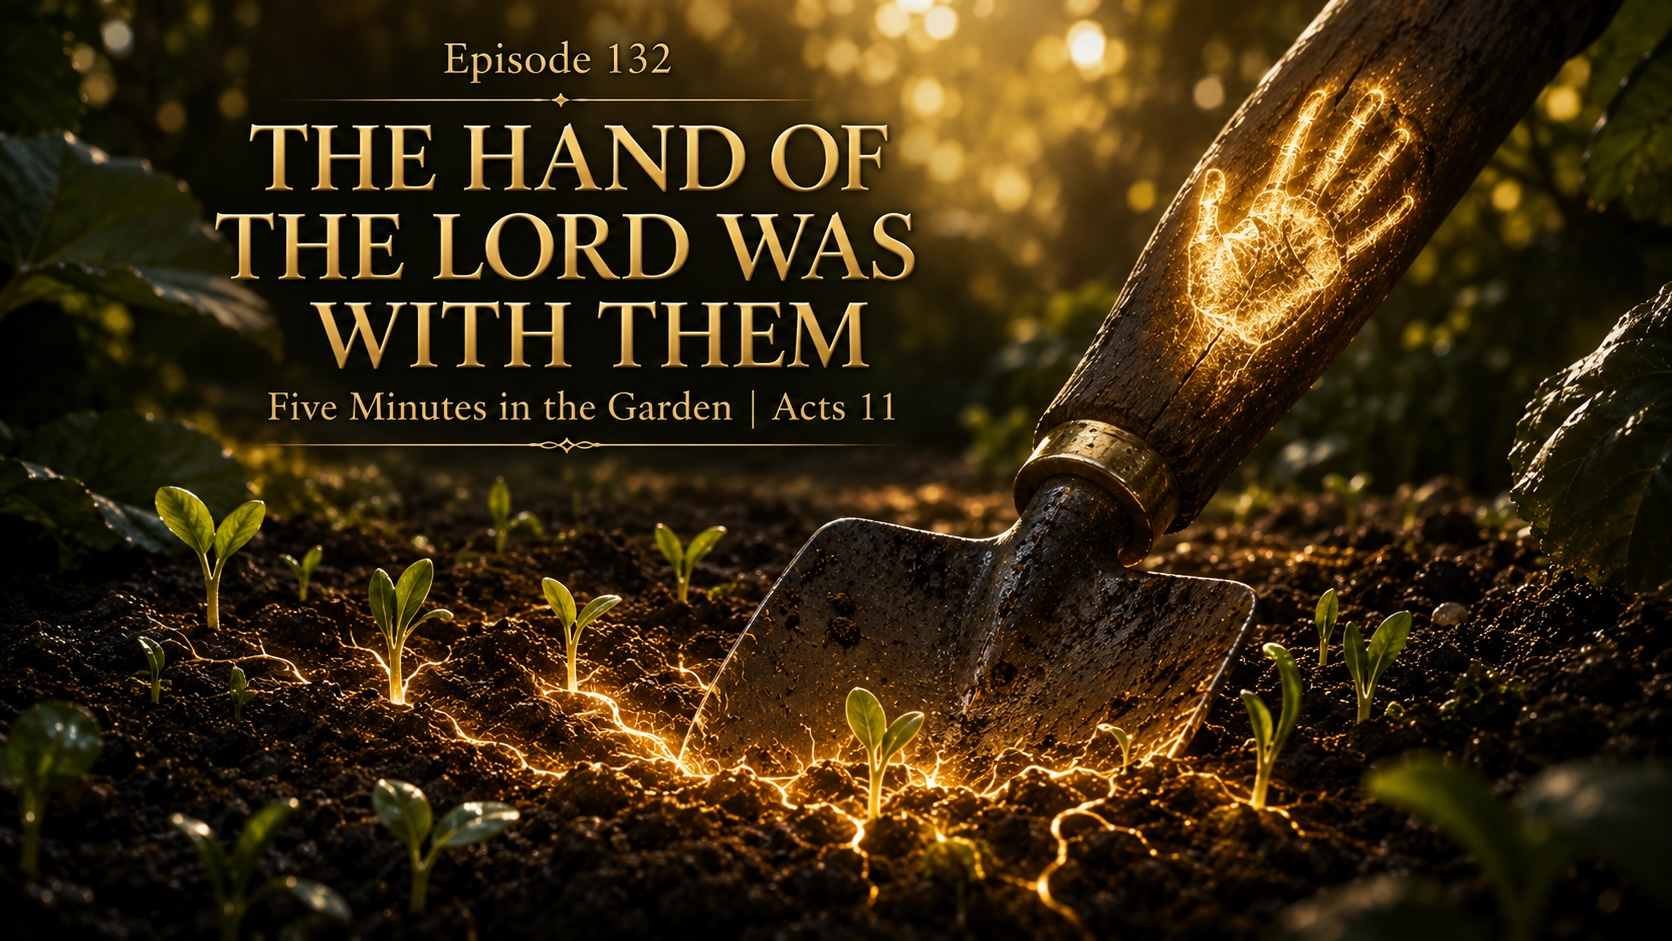
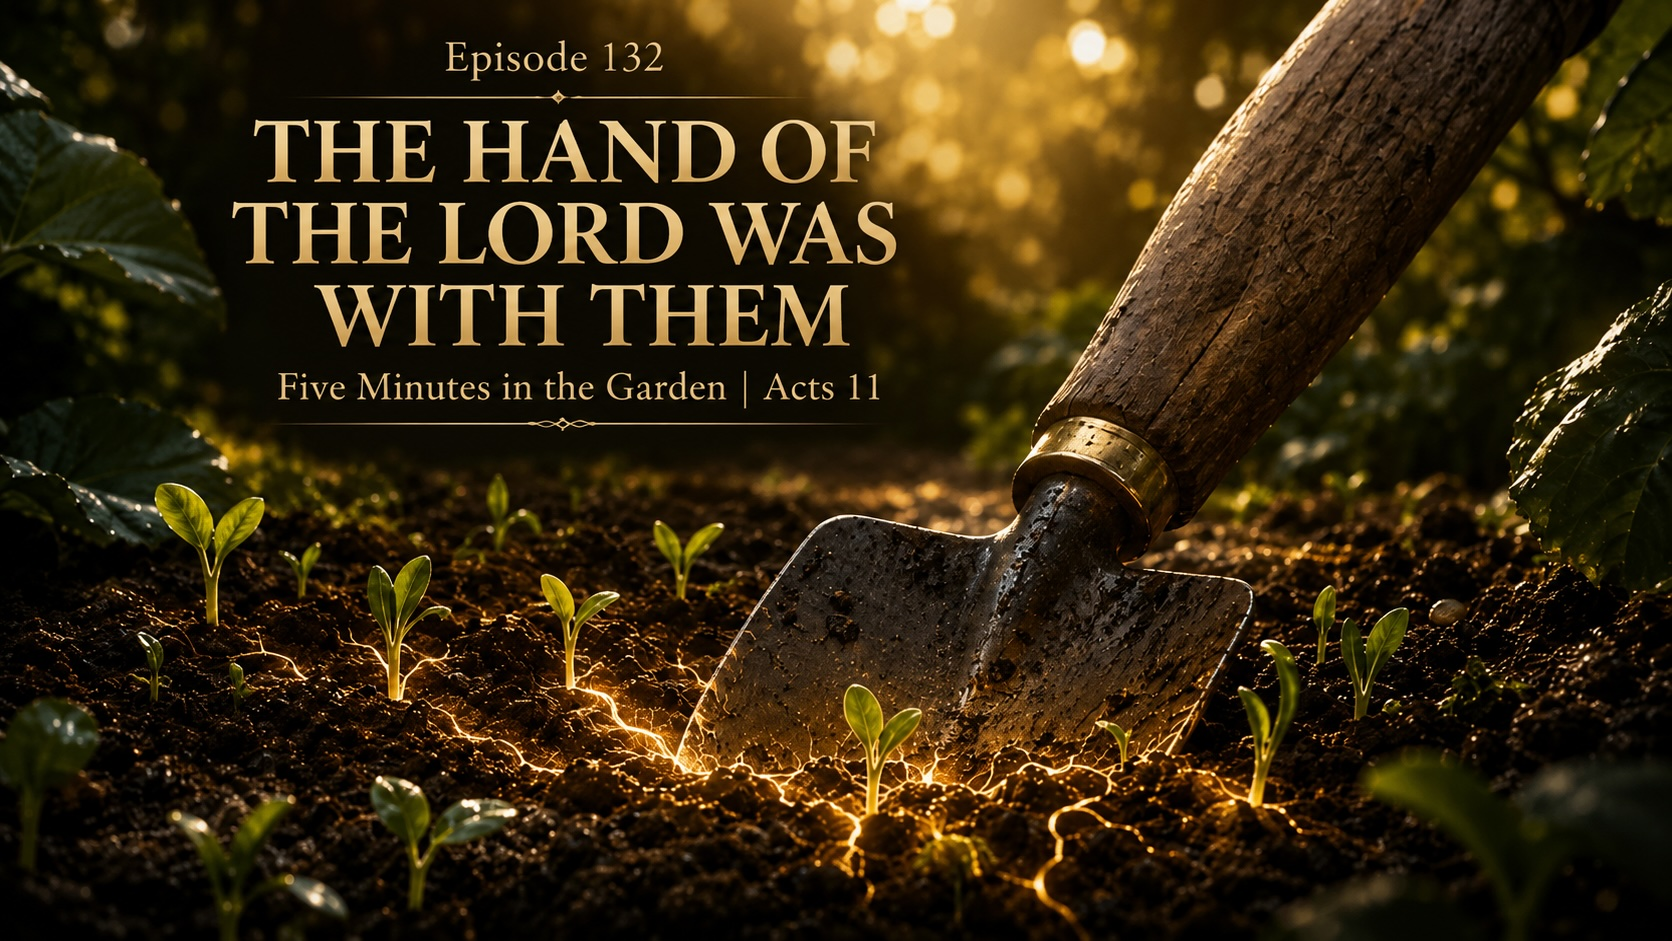
Publish episode 132, update audible link for episode 131, update YouTube link for episode 124, update artwork for 132

diff --git a/src/content/episodes/episode-132-the-hand-of-the-lord-was-with-them.md b/src/content/episodes/episode-132-the-hand-of-the-lord-was-with-them.md
@@ -1,0 +1,153 @@
+---
+title: "The Hand of the Lord Was with Them"
+episode: 132
+passage: "Acts 11:21"
+date: "2026-05-22"
+summary: "When God’s hand rests upon our efforts, ordinary work becomes part of His greater purpose."
+cover: "/episode-art/episode-132.jpg"
+spotify: "https://open.spotify.com/episode/4Bk4nfrApAK5ZvgD3L6MIq?si=S7H78O7NSVu0_SkCRFJSPw"
+amazon: "https://music.amazon.com/podcasts/760df990-7206-4e16-948b-b3c3038dcfce/episodes/99c151ba-fd9f-4f80-abb9-c0196db0afd4/episode-132-the-hand-of-the-lord-was-with-them"
+apple: "https://podcasts.apple.com/us/podcast/episode-132-the-hand-of-the-lord-was-with-them/id1804618601?i=1000769058828"
+audible: "https://www.audible.com/pd/B0H2MTTPXH?source_code=ASSGB149080119000H&share_location=pdp"
+youtube: "https://www.youtube.com/playlist?list=PLInIpT4GMkNXlKiTq2oVgSufLf-QaUDnt"
+draft: true
+---
+
+The message of Christ is spreading.
+
+Believers are sharing the good news.
+
+Lives are being changed.
+
+A new community is taking shape.
+
+But Scripture makes something important clear.
+
+The growth is not the result
+of human effort alone.
+
+The words are spoken
+by ordinary people.
+
+Yet something greater
+is at work.
+
+And Luke explains it
+with a simple phrase.
+
+*The hand of the Lord was with them.*
+
+## Scripture Reading
+
+<sup class="verse-num">21</sup> And the hand of the Lord was with them: and a great number believed, and turned unto the Lord.
+
+## Devotional Reflection
+
+The believers were faithful.
+
+They spoke.
+
+They served.
+
+They obeyed.
+
+But the true source
+of their fruitfulness
+was God.
+
+His presence.
+
+His power.
+
+His blessing.
+
+This is deeply reassuring.
+
+We are called
+to be faithful.
+
+But the results
+don’t rest
+on our shoulders alone.
+
+God’s hand accomplishes
+what our strength cannot.
+
+There is a difference
+between working hard
+and working with God.
+
+We can strive,
+plan,
+and labor diligently.
+
+But when the hand of the Lord
+is with us,
+our efforts are infused with grace.
+
+Conversations carry unexpected depth.
+
+Simple acts bear lasting fruit.
+
+Doors open
+that we could never open ourselves.
+
+The same task feels different
+when God’s presence
+rests upon it.
+
+Today, bring your efforts
+before the Lord.
+
+Your work.
+
+Your relationships.
+
+Your responsibilities.
+
+Your hopes.
+
+Do what’s yours to do.
+
+But ask God
+to place His hand upon it.
+
+Because even ordinary tasks
+become sacred
+when His presence is there.
+
+## Closing Prayer
+
+*Lord,*
+
+*Thank You that I do not labor alone.*
+
+*You invite me to be faithful,*
+*but You remain the source*
+*of every lasting result.*
+
+*Place Your hand upon my work today.*
+
+*Bless my words,*
+*my decisions,*
+*and the responsibilities before me.*
+
+*Where I feel inadequate,*
+*remind me that Your strength is enough.*
+
+*Where I feel discouraged,*
+*renew my hope.*
+
+*Where I am tempted*
+*to rely only on myself,*
+*teach me to depend on You.*
+
+*Let Your presence shape what I do,*
+*and let Your grace accomplish*
+*what my own effort cannot.*
+
+*Because when Your hand is with me,*
+*ordinary moments become part of Your greater work.*
+
+*In the name of the Father, and of the Son, and of the Holy Spirit,*
+*Amen.*

diff --git a/src/content/episodes/episode-131-the-disciples-were-called-christians-first.md b/src/content/episodes/episode-131-the-disciples-were-called-christians-first.md
@@ -8,7 +8,7 @@ cover: "/episode-art/episode-131.jpg"
 spotify: "https://open.spotify.com/episode/3mIzyOGhWKeucWrUcs4Pfz?si=MixmnXENRpG7N0iS1l1_pQ"
 amazon: "https://music.amazon.com/podcasts/760df990-7206-4e16-948b-b3c3038dcfce/episodes/7d457897-77d1-4b90-8099-dc3fc84d9f2b/episode-131-the-disciples-were-called-christians-first"
 apple: "https://podcasts.apple.com/us/podcast/episode-131-the-disciples-were-called-christians-first/id1804618601?i=1000768895589"
-audible: "https://tinyurl.com/5minAudible"
+audible: "https://www.audible.com/podcast/ITEM_NAME/B0H1WFBZV1?source_code=ASSGB149080119000H&share_location=pdp"
 youtube: "https://www.youtube.com/playlist?list=PLInIpT4GMkNXlKiTq2oVgSufLf-QaUDnt"
 draft: true
 ---

diff --git a/src/content/episodes/episode-124-tabitha-arise.md b/src/content/episodes/episode-124-tabitha-arise.md
@@ -9,7 +9,7 @@ spotify: "https://open.spotify.com/episode/4LsMMTCQiVQjmw3nNJxZCR?si=Sehi4hOSTH2
 amazon: "https://music.amazon.com/podcasts/760df990-7206-4e16-948b-b3c3038dcfce/episodes/829b2113-3ec0-40ac-a2c7-7ffe73eb7110/episode-124-tabitha-arise"
 apple: "https://podcasts.apple.com/us/podcast/episode-124-tabitha-arise/id1804618601?i=1000767733013"
 audible: "https://www.audible.com/podcast/Episode-124-Tabitha-Arise/B0H1ST1M5Z?source_code=ASSGB149080119000H&share_location=pdp"
-youtube: "https://www.youtube.com/playlist?list=PLInIpT4GMkNXlKiTq2oVgSufLf-QaUDnt"
+youtube: "https://youtu.be/n0H6zCsSbmQ"
 ---
 
 Yesterday, we met Tabitha.
